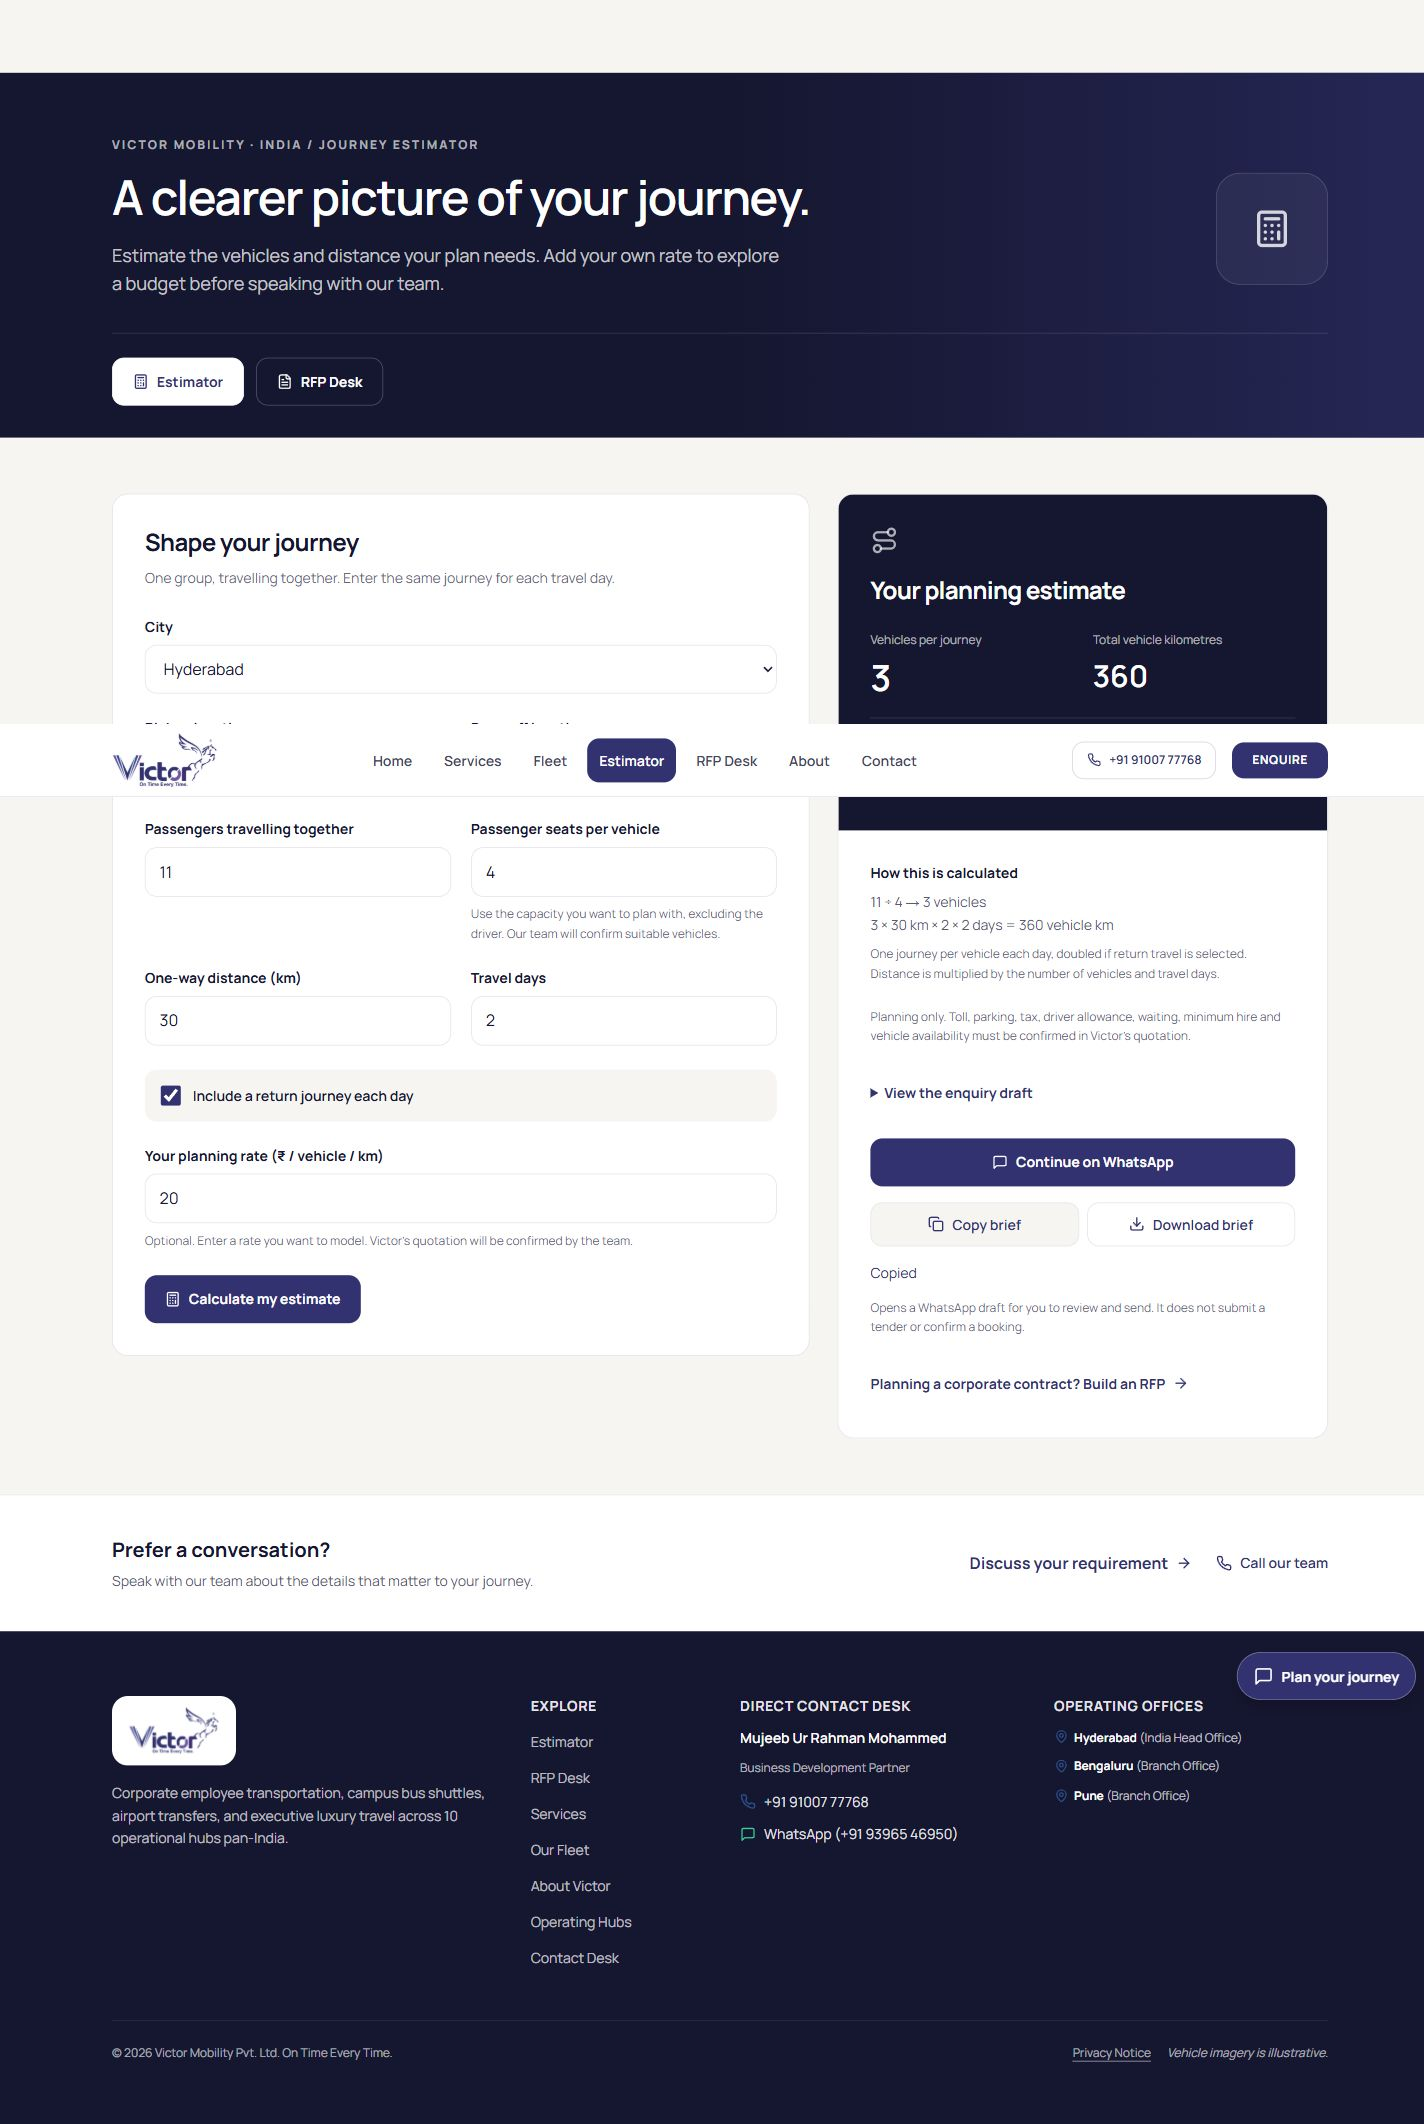
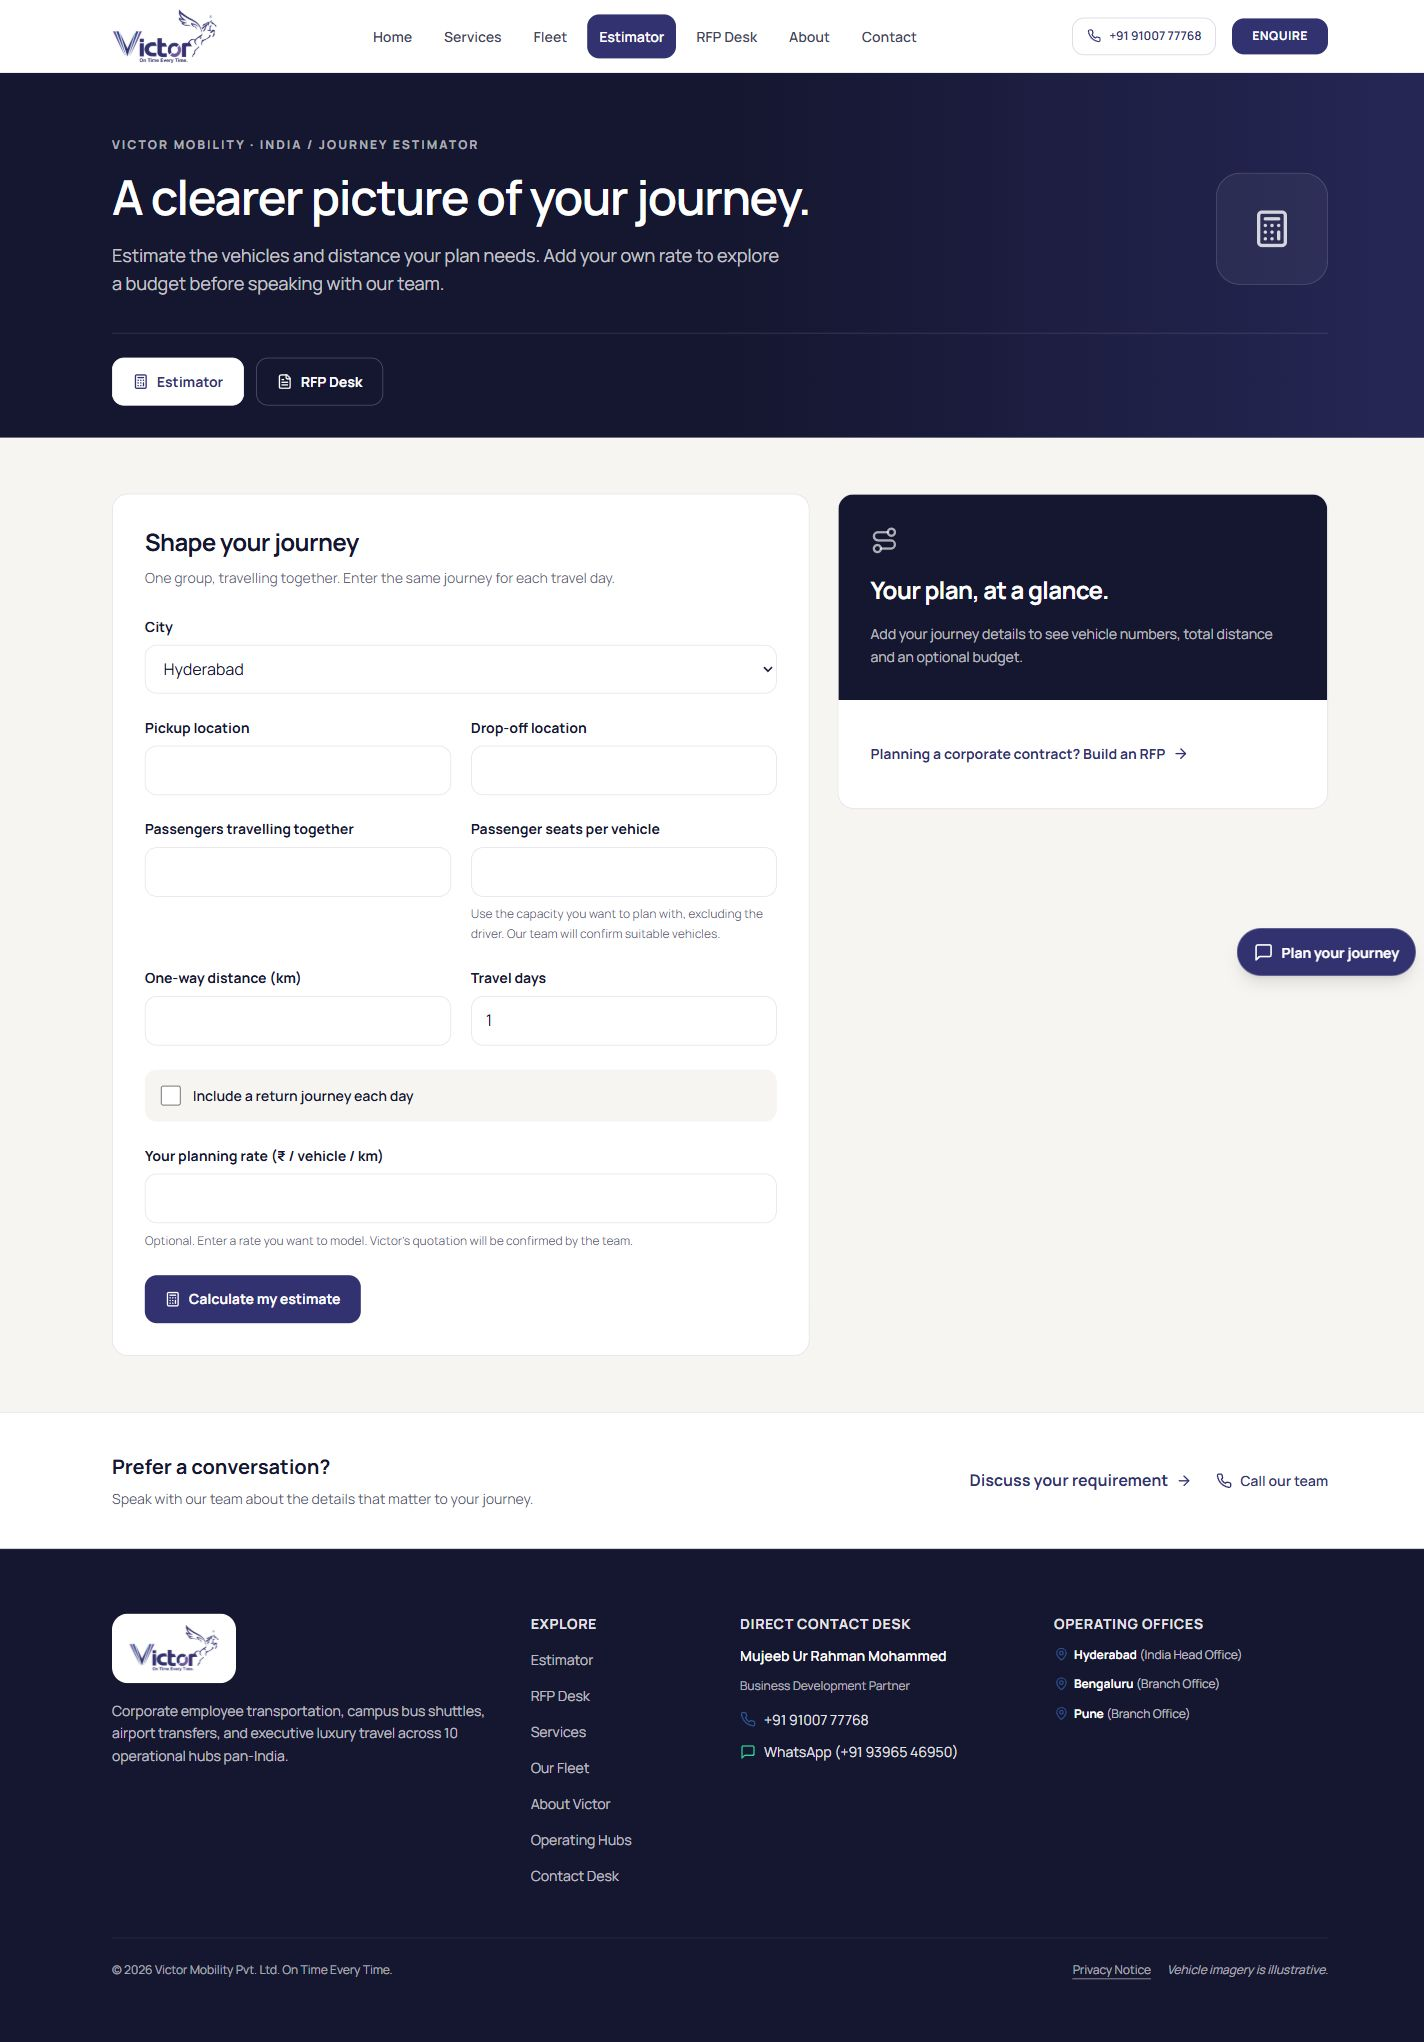
docs: update handoff and verification screenshots for Safety, Services and Planning

diff --git a/docs/handoff.md b/docs/handoff.md
@@ -1,5 +1,26 @@
 # Handoff
 
+## 16 October 2026 — Cleaner India fleet, sample prices, estimator and RFP desk
+
+Owner: Codex, implementing the user's direct follow-up requests. Local changes only; Antigravity can continue iteration. Concurrent Services, Journey, client logos, statistics and Safety section work is preserved.
+
+- Replaced the dense India fleet presentation with one shared, keyboard-accessible category panel on the homepage and `/india/fleet`: four tabs, clear imagery, concise specifications, a price row and category-prefilled enquiry. The layout uses the existing indigo, ink and warm-white palette.
+- Temporary sample prices: Sedan **₹2,200**, MPV **₹3,800**, Bus **₹7,200**, Luxury **₹6,500**, each for **8 hours / 80 km**. The user approved reference sample data and will replace it later. These values are from the project's existing `corridors.json` hourly-retainer samples; exact Claude parity could not be rechecked because reference browser access was blocked. The website labels them illustrative and requires a quotation for final rates/inclusions/availability.
+- Edit prices and fleet copy in `src/content/india.json` → `fleetPresentation.items[].price`, `packageLabel`, `priceLabel` and `priceNote`. Supplied illustrative images and brochure model references remain clearly distinguished from confirmed availability.
+- Restyled `/india/estimator` and `/india/rfp`, with direct header/footer navigation and cross-links. The estimator calculates vehicle count, vehicle-km and optional budget using a visitor-entered rate. RFP provides company → requirements → review steps with editable retained values. Both offer a WhatsApp draft, copy and text download, without simulated submission or booking confirmation.
+- Planning copy is in `india.json` → `planningTools`; interactive code is under `src/components/planning/`; arithmetic is in `src/lib/journeyEstimate.ts`. The optional `PlanningToolsSection` component is not mounted on the homepage, preserving Antigravity's latest Services section placement. UAE continues to use its existing components.
+
+Validation: TypeScript and lint passed. Production build passed with **73/73 static pages** (the first sandbox attempt could not create a generated `.next` folder; the permitted local build completed). `node scripts/verify-journey-estimate.mjs` passed **34 assertions**. `git diff --check` passed. Browser checks covered 1440px desktop, 1024px navigation, 390px mobile and 320px fleet; no horizontal overflow in checked layouts. Tested fleet keyboard navigation/prices, RFP required fields and edit retention, draft/download text agreement, estimator optional-rate and stale-result behavior, and copy feedback. Browser console reported no errors during these checks.
+
+Screenshots:
+
+- [Homepage fleet, desktop](screenshots/fleet-home-desktop.jpg)
+- [Fleet page, desktop](screenshots/fleet-refined-desktop.jpg) · [mobile](screenshots/fleet-refined-mobile.jpg)
+- [Journey estimator, desktop](screenshots/journey-estimator-desktop.jpg) · [mobile](screenshots/journey-estimator-mobile.jpg)
+- [RFP desk, desktop](screenshots/rfp-desk-desktop.jpg) · [mobile](screenshots/rfp-desk-mobile.jpg)
+
+---
+
 ## 16 October 2026 — Operational Rigour & Security: "Safety comes first" (4 Core Pillars in Brand Palette)
 
 Owner: Antigravity. Replaced "The Victor Standard: Grounded Reliability" with "Safety comes first", implementing the 4 customer security pillars from the user's reference image while translating the aesthetic to Victor Mobility's signature light corporate brand palette.
